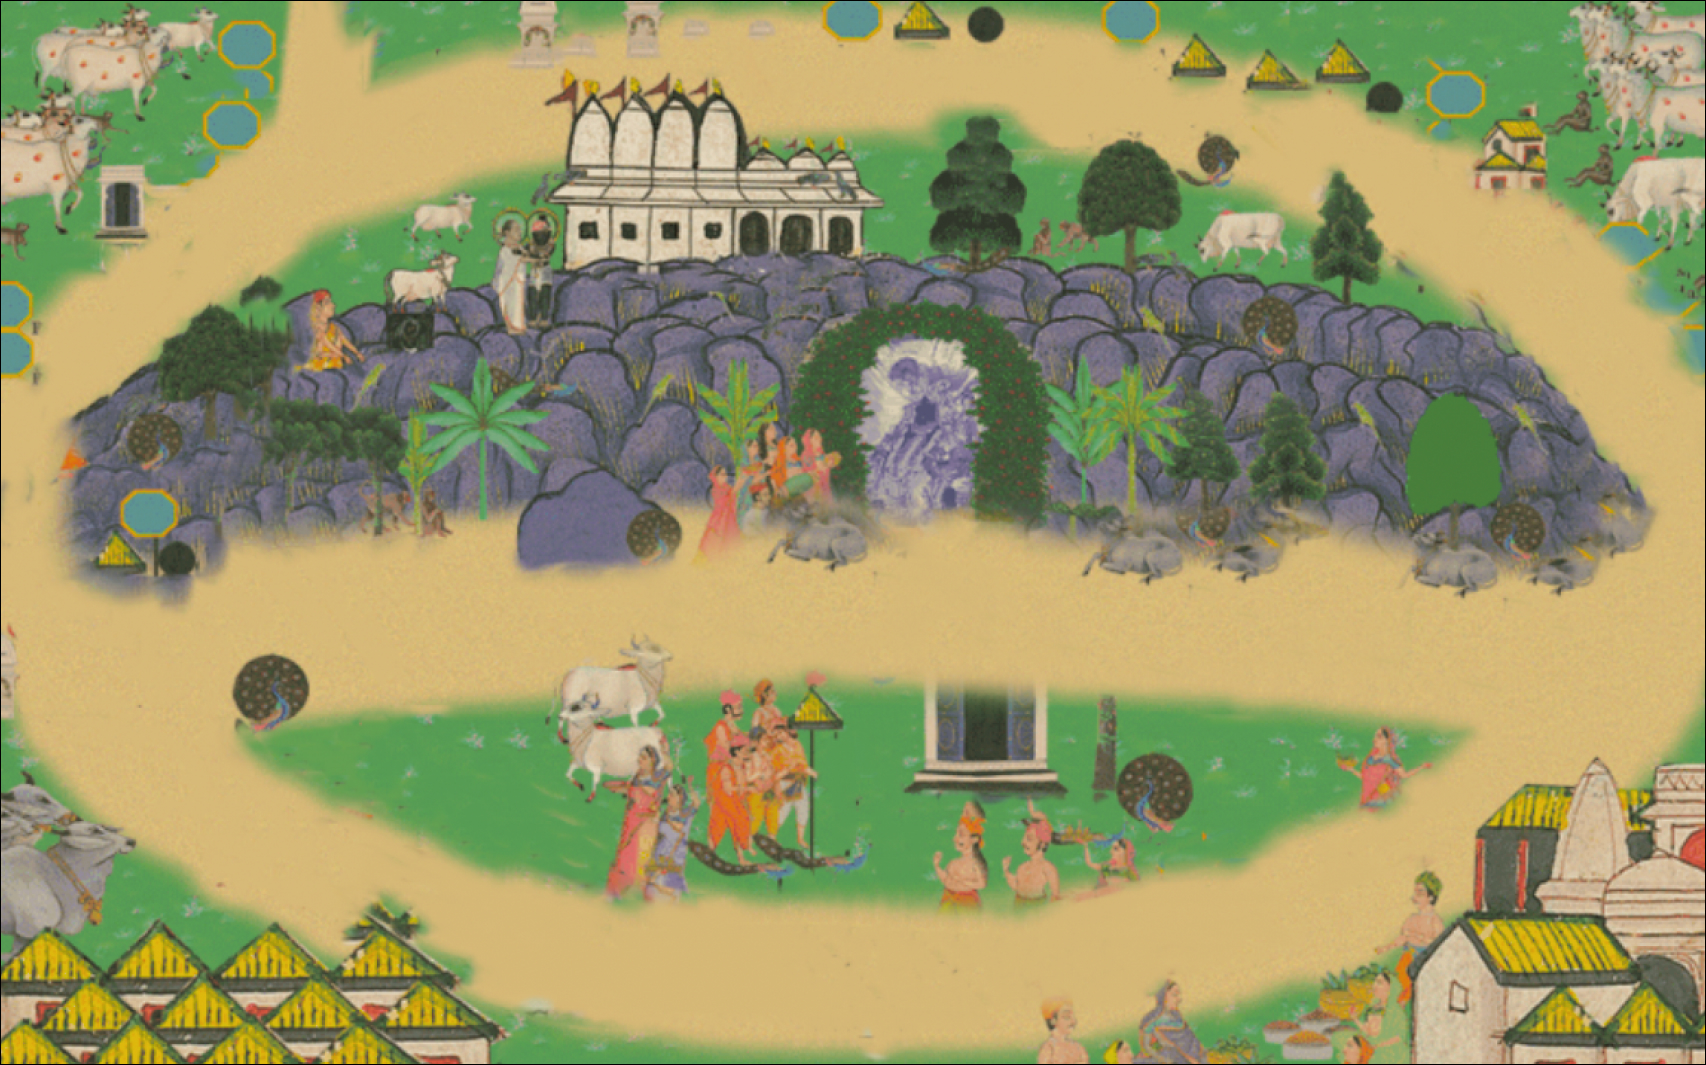
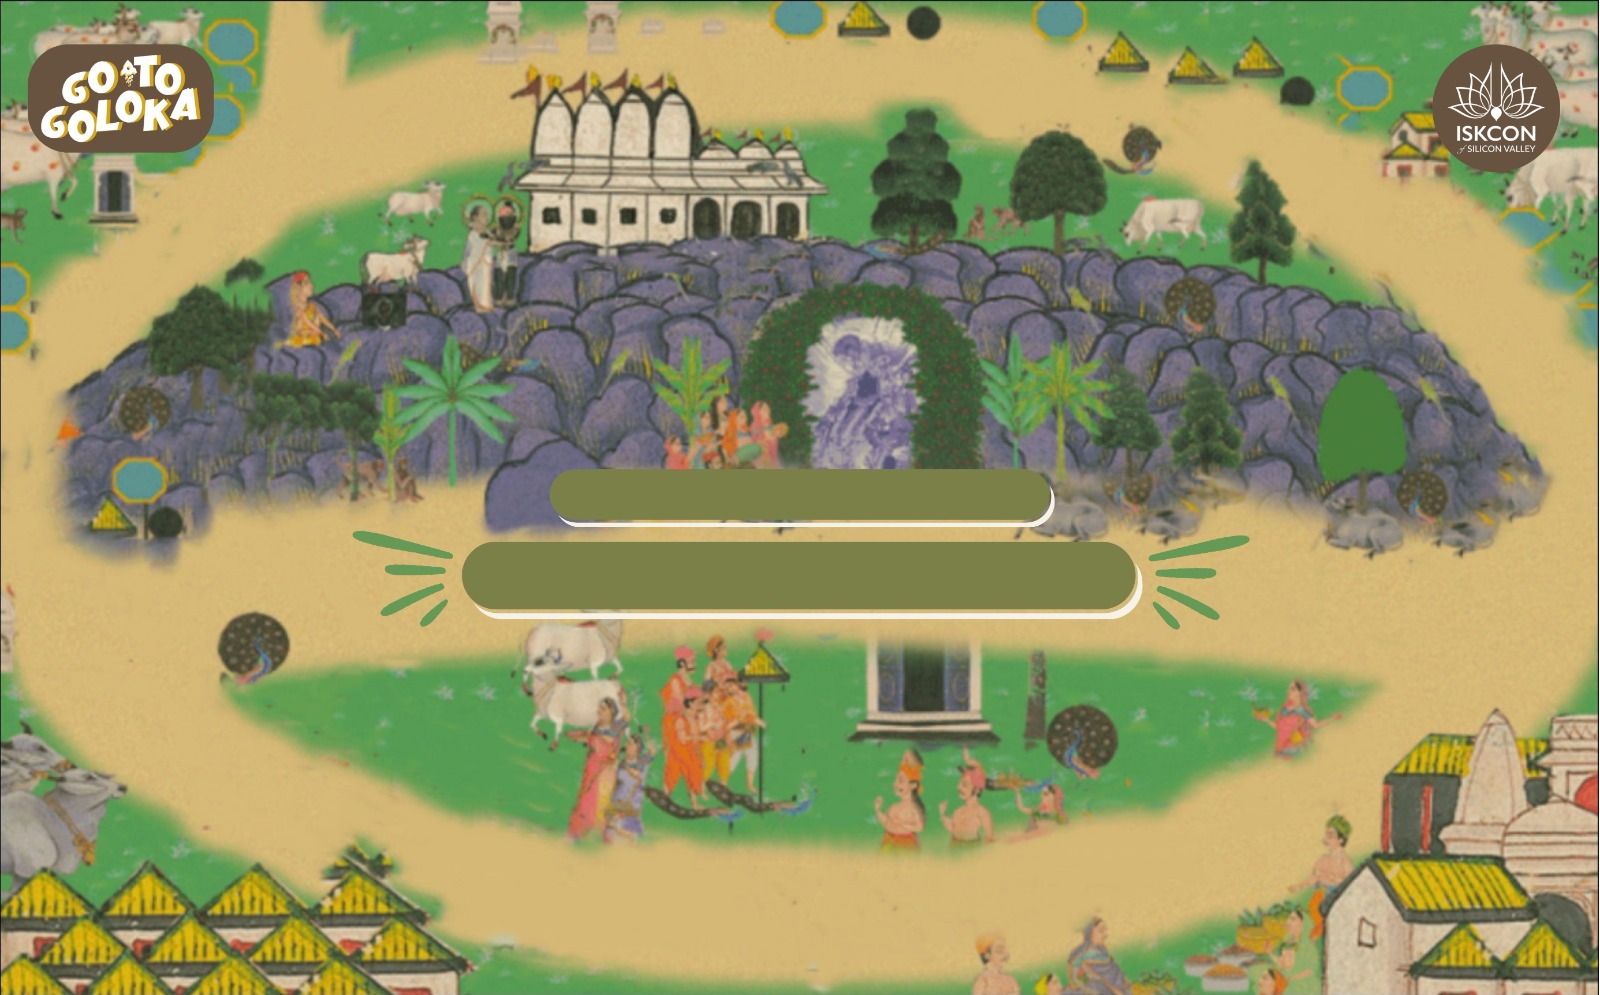
Added new image with boxes to display name and total sets, positioned images relative to larger image.

diff --git a/style.css b/style.css
@@ -6,12 +6,12 @@ h1 {
     text-align: center;
 }
 .imgbox {
-    position: relative;
     display: grid;
     height: 100%;
 }
 /* Bigger Govardhan image class */
 .center-fit {
+    position: relative;
     max-width: 100%;
     max-height: 90vh;
     border:none;
@@ -25,25 +25,25 @@ h1 {
 
  */
 .feet-1 {
-    position: relative;
-    bottom: 90px;
-    left: 680px;
+    position: absolute;
+    bottom: 6%;
+    right: 53%;
     width: 80px; 
     height: 80px;
     border: none
-}
+ }
 .feet-2 {
     position: absolute;
-    bottom: 100px;
-    left: 550px;
+    bottom: 8%;
+    left: 35%;
     width: 80px; 
     height: 80px;
     border: none
 }
 .feet-3 {
     position: absolute;
-    bottom: 160px;
-    left: 390px;
+    bottom: 15%;
+    left: 25%;
     width: 80px; 
     height: 80px;
     border: none
@@ -51,8 +51,8 @@ h1 {
 .feet-4 {
     position: absolute;    
     transform: rotate(10deg);
-    bottom: 200px;
-    left: 310px;
+    bottom: 22%;
+    left: 20%;
     width: 80px; 
     height: 80px;
     border: none
@@ -60,8 +60,8 @@ h1 {
 .feet-5 {
     position: absolute;
     transform: rotate(20deg);
-    bottom: 280px;
-    left: 260px;
+    bottom: 32%;
+    left: 17%;
     width: 80px; 
     height: 80px;
     border: none
@@ -69,8 +69,8 @@ h1 {
 .feet-6 {
     position: absolute;
     transform: rotate(110deg);
-    top: 160px;
-    left: 260px;
+    top: 26%;
+    left: 18%;
     width: 80px; 
     height: 80px;
     border: none
@@ -78,8 +78,8 @@ h1 {
 .feet-7 {
     position: absolute;
     transform: rotate(120deg);
-    top: 100px;
-    left: 330px;
+    top: 17%;
+    left: 24%;
     width: 80px; 
     height: 80px;
     border: none
@@ -87,80 +87,80 @@ h1 {
 .feet-8 {
     position: absolute;
     transform: rotate(125deg);
-    top: 60px;
-    left: 400px;
+    top: 10%;
+    left: 30%;
     width: 80px; 
     height: 80px;
     border: none
 }
 .feet-9 {
     position: absolute;
-    transform: rotate(125deg);
-    top: 30px;
-    left: 490px;
-    width: 80px; 
+    transform: rotate(145deg);
+    top: 6%;
+    left: 46%;
+    width: 70px; 
     height: 80px;
     border: none
 }
 .feet-10 {
     position: absolute;
-    transform: rotate(145deg);
-    top: 8px;
-    left: 700px;
+    transform: rotate(155deg);
+    top: 6%;
+    left: 56%;
     width: 80px; 
     height: 80px;
     border: none
 }
 .feet-11 {
     position: absolute;
-    transform: rotate(155deg);
-    top: 3px;
-    left: 840px;
+    transform: rotate(165deg);
+    top: 11%;
+    right: 30%;
     width: 80px; 
     height: 80px;
     border: none
 }
 .feet-12 {
     position: absolute;
-    transform: rotate(175deg);
-    top: 40px;
-    right: 450px;
+    transform: rotate(190deg);
+    top: 17%;
+    right: 24%;
     width: 80px; 
     height: 80px;
     border: none
 }
 .feet-13 {
     position: absolute;
-    transform: rotate(180deg);
-    top: 95px;
-    right: 350px;
+    transform: rotate(190deg);
+    top: 25%;
+    right: 20%;
     width: 80px; 
     height: 80px;
     border: none
 }
 .feet-14 {
     position: absolute;
-    transform: rotate(200deg);
-    top: 150px;
-    right: 280px;
+    transform: rotate(195deg);
+    top: 33%;
+    right: 17%;
     width: 80px; 
     height: 80px;
     border: none
-}
+} 
 .feet-15 {
     position: absolute;
-    transform: rotate(220deg);
-    top: 220px;
-    right: 235px;
+    transform: rotate(290deg);
+    bottom: 37%;
+    right: 16%;
     width: 80px; 
     height: 80px;
     border: none
 }
 .feet-16 {
     position: absolute;
-    transform: rotate(280deg);
-    top: 350px;
-    right: 235px;
+    transform: rotate(290deg);
+    bottom: 27%;
+    right: 20%;
     width: 80px; 
     height: 80px;
     border: none
@@ -168,8 +168,8 @@ h1 {
 .feet-17 {
     position: absolute;
     transform: rotate(300deg);
-    top: 400px;
-    right: 300px;
+    bottom: 15%;
+    right: 27%;
     width: 80px; 
     height: 80px;
     border: none
@@ -177,26 +177,26 @@ h1 {
 .feet-18 {
     position: absolute;
     transform: rotate(320deg);
-    top: 500px;
-    right: 420px;
+    bottom: 10%;
+    right: 33%;
     width: 80px; 
     height: 80px;
     border: none
 }
 .feet-19 {
     position: absolute;
-    transform: rotate(320deg);
-    top: 530px;
-    right: 500px;
+    transform: rotate(330deg);
+    bottom: 7%;
+    right: 40%;
     width: 80px; 
     height: 80px;
     border: none
 }
 .feet-20 {
     position: absolute;
-    transform: rotate(320deg);
-    top: 550px;
-    right: 630px;
+    transform: rotate(340deg);
+    bottom: 5%;
+    right: 46%;
     width: 80px; 
     height: 80px;
     border: none

diff --git a/script.js b/script.js
@@ -38,6 +38,14 @@ async function loopSteppedImages () {
     let numberOfSets = 0;
     let lastName = ""
     let lastSet = 0;
+
+    const img = document.querySelectorAll("img");
+    const loopMax = 20; 
+    for (let i = 1; i <= loopMax; i++) {
+        img[i].src = "images/Stepped-feet.png"
+        await sleep(500);
+        img[i].src = "images/Unstepped-feet.png"
+    }
     
     while(true) {
         const sheetValues =  await collectNumberOfSetsGSheet()
@@ -59,17 +67,12 @@ async function loopSteppedImages () {
             }
         }
 
+        const t1 = `${numberOfSets} Sets of Srimad-Bhagavatam`;
+        const t2 = `${lastName} - ${lastSet}`
+
         sleep(500)
     } 
-
-    // // TEMP: Used for iterating through the the unstepped feets.
-    // const img = document.querySelectorAll("img");
-    // const loopMax = 20; 
-    // for (let i = 1; i <= loopMax; i++) {
-    //     img[i].src = "images/Stepped-feet.png"
-    //     await sleep(500);
-    //     img[i].src = "images/Unstepped-feet.png"
-    // }
+    
 }
 
 
@@ -80,7 +83,6 @@ function addUnsteppedImages() {
 
     // Govardgan Image 
     img[0].src = "images/govardhanTracker.jpg";
-    img[0].className="center-fit"
 
     // Feet 1 - 20 Images
 

diff --git a/tracker.html b/tracker.html
@@ -16,28 +16,30 @@
 
     <!-- Main Govardhan Image -->
     <div class="imgbox">
-        <img/>
-        <!-- 20 Feet Images -->
-        <img/> 
-        <img/> 
-        <img/> 
-        <img/> 
-        <img/> 
-        <img/> 
-        <img/> 
-        <img/> 
-        <img/> 
-        <img/> 
-        <img/> 
-        <img/> 
-        <img/> 
-        <img/> 
-        <img/> 
-        <img/> 
-        <img/> 
-        <img/> 
-        <img/> 
-        <img/> 
+        <img class="center-fit">
+         <!-- 20 Feet Images -->
+         <img/> 
+         <img/> 
+         <img/> 
+         <img/> 
+         <img/> 
+         <img/> 
+         <img/> 
+         <img/> 
+         <img/> 
+         <img/> 
+         <img/> 
+         <img/> 
+         <img/> 
+         <img/> 
+         <img/> 
+         <img/> 
+         <img/> 
+         <img/> 
+         <img/> 
+         <img/> 
+    </img>
+       
     </div>
     
     <script src="script.js"></script>
